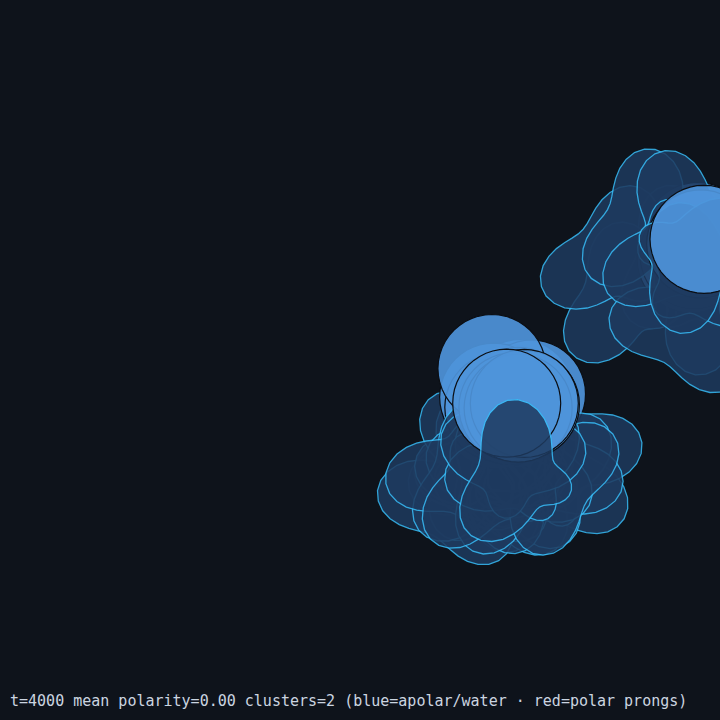
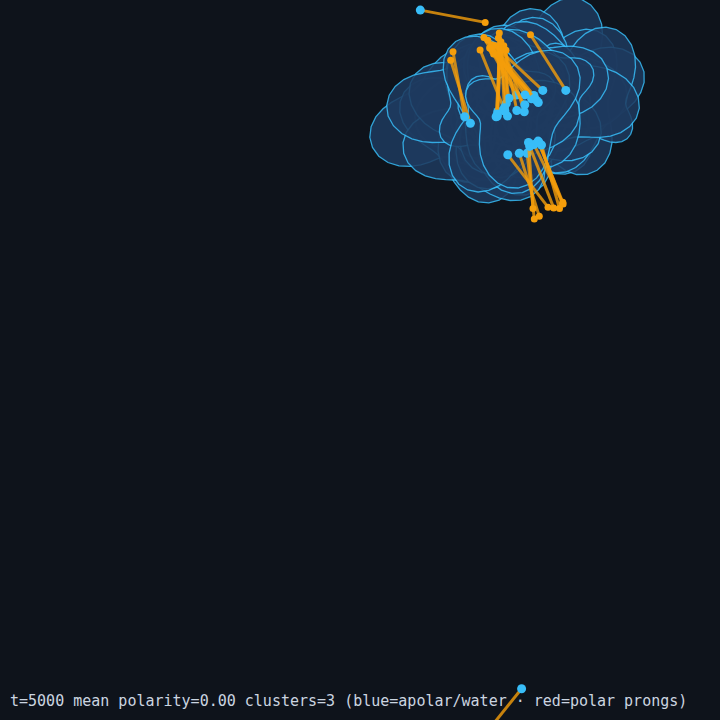
vivarium: host amphiphile membrane demo — lipid rods live, k_tail/k_hydro/lipid knobs, autopause@5000
- render_svg + live viewer now draw LIPIDS as rods (blue hydrophilic head, orange hydrophobic tail),
  so tail-in/head-out self-assembly is visible; oil drawn grey. snapshot() carries species + lipid axes.
- showcase is now the water + amphiphile membrane demo (water 0.55, lipid 0.45, conservative,
  overdamped, low kT to settle). New knobs: k_tail (tail cohesion), k_hydro (hydrophobic effect),
  lipid (fraction, pseudo-knob → restart). Reset-to-defaults button restores them all.
- server: auto-pause at 5000 steps (resumable; restart resumes). Base case still byte-identical.

The amphiphile physics works: lipid tails cohere into a hydrophobic core with heads facing water
(micelle-like tail-in aggregates). Bilayer-vs-micelle tuning is the remaining knob-space to explore live.

Claude-Session: https://claude.ai/code/session_017Ld9DgPtjwxx7hhxTDgxgL

diff --git a/projects/vivarium/viewer.html b/projects/vivarium/viewer.html
@@ -263,7 +263,7 @@ const KMAX = {noise:1.5, spin:1.5, nonrecip:3, scale:1, rd:2,
               repel:0.6, attract:1, cohesion:0.8, temperature:3, skew:2, morph:1.5,
               momentum:0.98, speed:1.5, plasticity:1.0, polarity:1.5, water:0.85, attn_sink:5,
               selectivity:3, temperature:1.0, sink_repel:8, sink_attract:8, sink_polarity:4,
-              repel_contact:3, collision:1, rigidity:1};
+              repel_contact:3, collision:1, rigidity:1, k_tail:4, k_hydro:3, lipid:0.9};
 const KDESC = {
   repel:    "PAULI EXCLUSION (soft excluded volume) — the hard-core repulsion that stops blobs overlapping. Mandatory: electrostatics alone would collapse (Earnshaw).",
   attract:  "VAN DER WAALS + shape complementarity (lock-and-key) — charge-blind adhesion between shapes that fit; also drives the induced-fit morph.",
@@ -283,6 +283,9 @@ const KDESC = {
   repel_contact: "CONTACT DISTANCE — repel (excluded volume) acts ONLY when two agents are closer than this (interpenetrate); 0 = old always-on soft repel. This makes it a real, symmetric Pauli exclusion that conserves momentum.",
   collision: "ELASTIC COLLISION — on overlap, the pair exchanges velocity along the contact normal → momentum transfers between colliding agents (conserved). Needs contact>0.",
   rigidity: "RIGIDITY (elastic stiffness) — restoring pull of the shape back toward round each step; the OPPOSITE of morph (flexibility). 0 = fully flexible/deformable, 1 = stiff.",
+  k_tail: "TAIL COHESION — hydrophobic attraction between lipid tails; builds the membrane core (higher → stronger aggregation).",
+  k_hydro: "HYDROPHOBIC EFFECT — lipid tails repelled from water + heads attracted to water; drives heads-out / tails-in.",
+  lipid: "LIPID FRACTION — amphiphiles (blue head + orange tail rods). Changing restarts the dish. 0 = no lipids.",
   noise:    "THERMAL FLUCTUATION (Langevin) — seeded random jitter / symmetry-breaking. Equilibrium-seeking (unlike skew).",
   spin:     "GYROSCOPIC drive on the embedding — rotational anti-collapse (skew on z).",
   nonrecip: "NON-RECIPROCAL ATTENTION A+β(A−Aᵀ) — the antisymmetric part breaks detailed balance → active-matter circulation (the most faithful ‘alive’ drive).",
@@ -382,6 +385,15 @@ function draw(al){
   ctx.clearRect(0,0,W,H);
 
   for(let idx=0; idx<N; idx++){
+    if(s.species && s.species[idx]===3){          // LIPID → draw as a rod (blue head, orange tail)
+      const o = (s.lipids && s.lipids[idx]) || [1,0], e2 = (s.lip_ell||0.55)*sc;
+      const hx=px[idx]-o[0]*e2, hy=py[idx]+o[1]*e2, tx=px[idx]+o[0]*e2, ty=py[idx]-o[1]*e2;
+      ctx.strokeStyle='rgba(245,158,11,0.85)'; ctx.lineWidth=3;
+      ctx.beginPath(); ctx.moveTo(hx,hy); ctx.lineTo(tx,ty); ctx.stroke();
+      ctx.fillStyle='#f59e0b'; ctx.beginPath(); ctx.arc(tx,ty,3.5,0,7); ctx.fill();   // hydrophobic tail
+      ctx.fillStyle='#38bdf8'; ctx.beginPath(); ctx.arc(hx,hy,4.5,0,7); ctx.fill();   // hydrophilic head
+      continue;
+    }
     let c = s.tokens[idx].c; const K = c.length/2;
     // interpolate the SHAPE coefficients too (not just position) — otherwise blobs morph in
     // stutters at the frame rate while positions glide. Shape doesn't wrap, so always lerp.

diff --git a/projects/vivarium/server.py b/projects/vivarium/server.py
@@ -48,6 +48,7 @@ class Sim:
         # pseudo-knobs: name → (getter, setter). Unlike real knobs (a live setattr), these need a
         # restart (e.g. changing the water COUNT re-assigns species). Set after construction.
         self.pseudo: dict = {}
+        self.autopause = 0        # if >0, auto-pause when engine.t reaches this step (resumable)
         self.lock = threading.Lock()
         self.engine = self._make(seed)
         self.paused = False
@@ -85,6 +86,8 @@ class Sim:
                 with self.lock:
                     self.engine.step()
                     self._buf.append(self.engine.X[:, :2].copy())  # positions only (cheap)
+                if self.autopause and self.engine.t >= self.autopause:
+                    self.paused = True                            # auto-pause at the given step (resumable)
             # sleep the *remaining* time so the cadence is stable regardless of step cost
             time.sleep(max(0.0, dt - (time.perf_counter() - t0)))
 
@@ -137,6 +140,7 @@ class Sim:
             self.vel_reset()
             self._alive = 0.0
             self._buf.clear()
+        self.paused = False        # a restart resumes (past any auto-pause)
 
     def vel_reset(self) -> None:
         if hasattr(self.engine, "vel"):
@@ -250,7 +254,8 @@ def main(argv: list[str] | None = None) -> int:
         # polarity is a FUNCTIONAL of the morphing contour (prongs +, centre −), realised as ONE bounded
         # bearing-aware attention head (transformer-only) — the electrostatic complement to the steric
         # attract/repel heads. `water` is a pseudo-knob (changing the count needs a restart).
-        water_box = [0.4]
+        water_box = [0.55]
+        lipid_box = [0.45]     # amphiphile lipids → membrane self-assembly (water + lipid demo)
 
         def make_engine(s):
             # sensible SHOWCASE defaults (base-case identity is defined vs PackEngine's own defaults, so
@@ -264,29 +269,35 @@ def main(argv: list[str] | None = None) -> int:
             # viscous dish is). Energy hierarchy: excluded volume (repel) ≫ electrostatics / H-bond
             # (polarity, ~10 kT) ≫ van der Waals dispersion (attract, ~1 kT) ~ thermal kT (temperature).
             # Range hierarchy: Pauli (repel) < vdW (attract) < electrostatic (polarity).
-            e = PolarPackEngine(cfg, s, water_frac=water_box[0], repel=2.00, attract=0.40,
-                                polarity=1.00, cohesion=0.00, skew=0.00, morph=0.70,
-                                momentum=0.30, speed=1.20)   # momentum 0.3 ≈ overdamped (viscous solvent)
+            e = PolarPackEngine(cfg, s, water_frac=water_box[0], lipid_frac=lipid_box[0],
+                                repel=2.00, attract=0.40, polarity=1.00, cohesion=0.00, skew=0.00,
+                                morph=0.70, momentum=0.30, speed=1.20)   # momentum 0.3 ≈ overdamped
             e.conservative = True      # symmetric CONSERVATIVE forces → relaxes to a free-energy min
             e.sink_repel, e.sink_attract, e.sink_polarity = 6.0, 1.0, 0.25   # Gaussian decay rates λ
-            e.repel_contact = 1.00     # σ = particle diameter = the length unit; repel acts only on overlap
+            e.repel_contact = 1.00     # σ = particle diameter; repel acts only on overlap
             e.rigidity = 0.00
             e.selectivity = 0.30
-            e.temperature = 0.15       # kT ≈ the vdW scale → liquid regime (not frozen, not a gas)
+            e.temperature = 0.05       # low kT → let the membrane settle
+            e.k_tail, e.k_hydro = 1.5, 1.0   # amphiphile: tail cohesion + hydrophobic effect
             return e
         knob_names = ("repel", "sink_repel", "repel_contact", "attract", "sink_attract",
-                      "polarity", "sink_polarity", "morph", "rigidity", "selectivity", "temperature",
-                      "momentum", "speed")
-        label = "POLAR PACK (electrostatic polarity head from the morphing contour + water)"
+                      "polarity", "sink_polarity", "k_tail", "k_hydro", "morph", "rigidity",
+                      "selectivity", "temperature", "momentum", "speed")
+        label = "POLAR PACK (water + amphiphile lipids → membrane self-assembly)"
     server = ThreadingHTTPServer((args.host, args.port), Handler)
     server.sim = Sim(cfg, seed, args.hz, make_engine, knob_names)
     if args.polar:
-        def _set_water(v):
-            v = max(0.0, min(0.85, v))
-            if abs(v - water_box[0]) > 0.02:
-                water_box[0] = v
-                server.sim.restart(seed=server.sim.seed)   # same seed → only the water count changes
-        server.sim.pseudo = {"water": (lambda: water_box[0], _set_water)}
+        server.sim.autopause = 5000       # auto-pause at 5000 steps (resumable / restart resumes)
+
+        def _restarter(box, v, lo, hi):
+            v = max(lo, min(hi, v))
+            if abs(v - box[0]) > 0.02:
+                box[0] = v
+                server.sim.restart(seed=server.sim.seed)
+        server.sim.pseudo = {
+            "water": (lambda: water_box[0], lambda v: _restarter(water_box, v, 0.0, 0.9)),
+            "lipid": (lambda: lipid_box[0], lambda v: _restarter(lipid_box, v, 0.0, 0.9)),
+        }
     print(f"serving: {label}")
     print(
         f"vivarium viewer on http://{args.host}:{server.server_address[1]}\n"

diff --git a/projects/vivarium/polar_pack.py b/projects/vivarium/polar_pack.py
@@ -267,6 +267,14 @@ class PolarPackEngine(PackEngine):
         return {"clusters": m["n_clusters"], "largest": round(m["largest_frac"], 3),
                 "polarity": round(float(pol[act].mean()) if act.any() else 0.0, 3)}
 
+    def snapshot(self):
+        snap = super().snapshot()
+        snap["species"] = [int(x) for x in self.species]        # 0 water · 1 active · 2 oil · 3 lipid
+        snap["lip_ell"] = float(self.lip_ell)
+        snap["lipids"] = {int(i): [float(self.lipid_o[k, 0]), float(self.lipid_o[k, 1])]
+                          for k, i in enumerate(self._li)}       # per-lipid head↔tail axis (for rods)
+        return snap
+
 
 def render_svg(e, W=720):
     """Draw the actual contour blobs, coloured by emergent polarity (blue apolar → red polar); water
@@ -288,12 +296,26 @@ def render_svg(e, W=720):
         pts = " ".join(f"{x:.1f},{y:.1f}" for x, y in zip(xs, ys))
         t = max(0.0, min(1.0, (pol[i] - 4.0) / 14.0))
         hue = 210 * (1 - t)
+        if e.species[i] == LIPID:
+            continue                                  # drawn as rods below
         if e.species[i] == WATER:
             parts.append(f'<polygon points="{pts}" fill="#1e3a5f" stroke="#38bdf8" '
                          f'stroke-width="1.3" opacity="0.85"/>')
+        elif e.species[i] == OIL:
+            parts.append(f'<circle cx="{X(pos[i,0]):.1f}" cy="{X(pos[i,1]):.1f}" r="{0.6*sc:.1f}" '
+                         f'fill="#3f3f46" stroke="#71717a" stroke-width="1"/>')  # nonpolar oil = grey
         else:
             parts.append(f'<polygon points="{pts}" fill="hsla({hue:.0f},65%,58%,0.92)" '
                          f'stroke="#0b0e13" stroke-width="1.2"/>')
+    # LIPIDS as rods: head (blue, hydrophilic) — tail (orange, hydrophobic)
+    for k, i in enumerate(e._li):
+        o = e.lipid_o[k]
+        hx, hy = X(pos[i, 0] - e.lip_ell * o[0]), X(pos[i, 1] - e.lip_ell * o[1])
+        tx, ty = X(pos[i, 0] + e.lip_ell * o[0]), X(pos[i, 1] + e.lip_ell * o[1])
+        parts.append(f'<line x1="{hx:.1f}" y1="{hy:.1f}" x2="{tx:.1f}" y2="{ty:.1f}" '
+                     f'stroke="#f59e0b" stroke-width="3" opacity="0.8"/>')          # tail rod
+        parts.append(f'<circle cx="{tx:.1f}" cy="{ty:.1f}" r="3.5" fill="#f59e0b"/>')  # tail tip
+        parts.append(f'<circle cx="{hx:.1f}" cy="{hy:.1f}" r="4.5" fill="#38bdf8"/>')  # hydrophilic head
     m = e.measure()
     parts.append(f'<text x="10" y="{W-14}" fill="#cbd5e0" font-family="monospace" font-size="15">'
                  f't={e.t}  mean polarity={m["polarity"]:.2f}  clusters={m["clusters"]}  '
